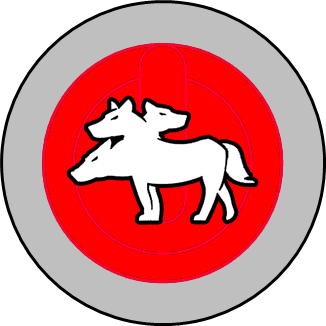
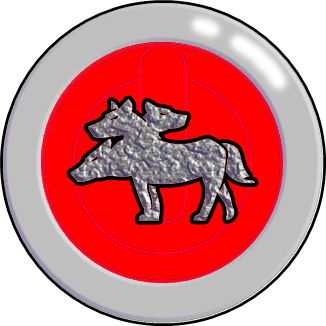
ストーンのテクスチャ更新・サウンド更新

diff --git a/カーリングファイト/Assets/Marvest/Scripts/Sounds/SoundEffect.cs b/カーリングファイト/Assets/Marvest/Scripts/Sounds/SoundEffect.cs
@@ -4,8 +4,9 @@ namespace Marvest.Sounds
 {
     public class SoundEffect : MonoBehaviour
     {
-        public AudioClip SeHit;
+        public AudioClip SeStoneHit;
         public AudioClip SeBulletHit;
+        public AudioClip SeIceSlide;
 
         private AudioSource audioSource;
 
@@ -14,14 +15,19 @@ namespace Marvest.Sounds
             audioSource = GetComponent<AudioSource>();
         }
 
-        public void PlayHitSe()
+        public void PlayStoneHitSe()
         {
-            audioSource.PlayOneShot(SeHit);
+            audioSource.PlayOneShot(SeStoneHit);
         }
 
         public void PlayBulletHitSe()
         {
             audioSource.PlayOneShot(SeBulletHit);
+        }
+
+        public void IceSlideSe()
+        {
+            audioSource.PlayOneShot(SeIceSlide);
         }
     }
 }

diff --git a/カーリングファイト/Assets/Marvest/Scripts/Units/EnemyUnit.cs b/カーリングファイト/Assets/Marvest/Scripts/Units/EnemyUnit.cs
@@ -72,7 +72,7 @@ namespace Marvest.Units
 
         private void OnHitByUnit(PlayerUnit unit)
         {
-            StageSceneGlobalVariables.Instance.SoundEffect.PlayHitSe();
+            StageSceneGlobalVariables.Instance.SoundEffect.PlayStoneHitSe();
 			ReceiveDamage(unit.AttackPower);
 			int combo = StageSceneGlobalVariables.Instance.PlayerParty.Combo;
 			StageSceneGlobalVariables.Instance.Score += 10 * combo;	//スコア加算
